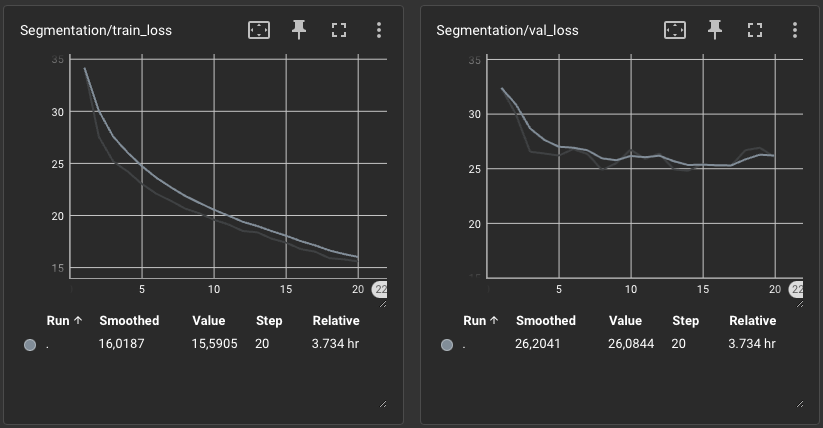
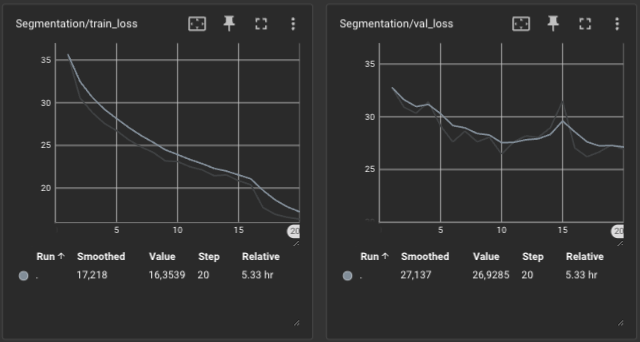
Results update taco28 mask2former

diff --git a/README.md b/README.md
@@ -506,41 +506,41 @@ Training of the Mask2former using the taco28 dataset in the task of instance seg
 - **Outputs:**
 Train of the Mask2former in Taco28 for 20 epochs:
 ![taco28_mask2former](readme_images/train_mask2former_taco28.png)
-Best model is found at epoch 14 and metrics are computed.
+Best model is found at epoch 20. Despite loss bottomed at epoch 17 valuation metrics (mIoU) kept going down and therefore epoch 20 looks still a bit more promissing. Maybe further learning could be conducted to improve results.
 
 - **Metrics**:
 
 Categories | mIoU
 --- | ---
-Background | 0.9905351996421814
+Background | 0.9908596873283386
 Aluminium foil | 0.0
 Battery | 0.0
 Blister pack | 0.0
-Bottle | 0.11504539847373962
-Bottle cap | 0.04049689695239067
+Bottle | 0.09910181164741516
+Bottle cap | 0.043327733874320984
 Broken glass | 0.0
-Can | 0.03863873332738876
-Carton | 0.0264853797852993
-Cigarette | 0.0204333309084177
-Cup | 0.041645195335149765
-Food waste: | 0.0
+Can | 0.060843873769044876
+Carton | 0.05095602571964264
+Cigarette | 0.015832440927624702
+Cup | 0.03592093661427498
+Food waste | 0.0
 Glass jar | 0.0
-Lid | 0.012108653783798218
-Other plastic | 0.018098747357726097
-Paper | 0.010264495387673378
+Lid | 0.012202137149870396
+Other plastic | 0.020540520548820496
+Paper | 0.016484104096889496
 Paper bag | 0.0
-Plastic bag & wrapper | 0.13824139535427094
-Plastic container | 0.0058823530562222
+Plastic bag & wrapper | 0.1564932018518448
+Plastic container | 0.0
 Plastic glooves | 0.0
-Plastic utensils | 0.0038472835440188646
+Plastic utensils | 0.0
 Pop tab | 0.0
-Rope & strings | 0.0
+Rope & strings | 0.0028102947399020195
 Scrap metal | 0.0
 Shoe | 0.0
 Squeezable tube | 0.0
-Straw | 0.008996364660561085
-Styrofoam piece | 0.01385095901787281
-Unlabeled litter | 0.0
+Straw | 0.00902826339006424
+Styrofoam piece | 0.008733779191970825
+Unlabeled litter | 0.0053437091410160065
 
 
 ## MLOps
